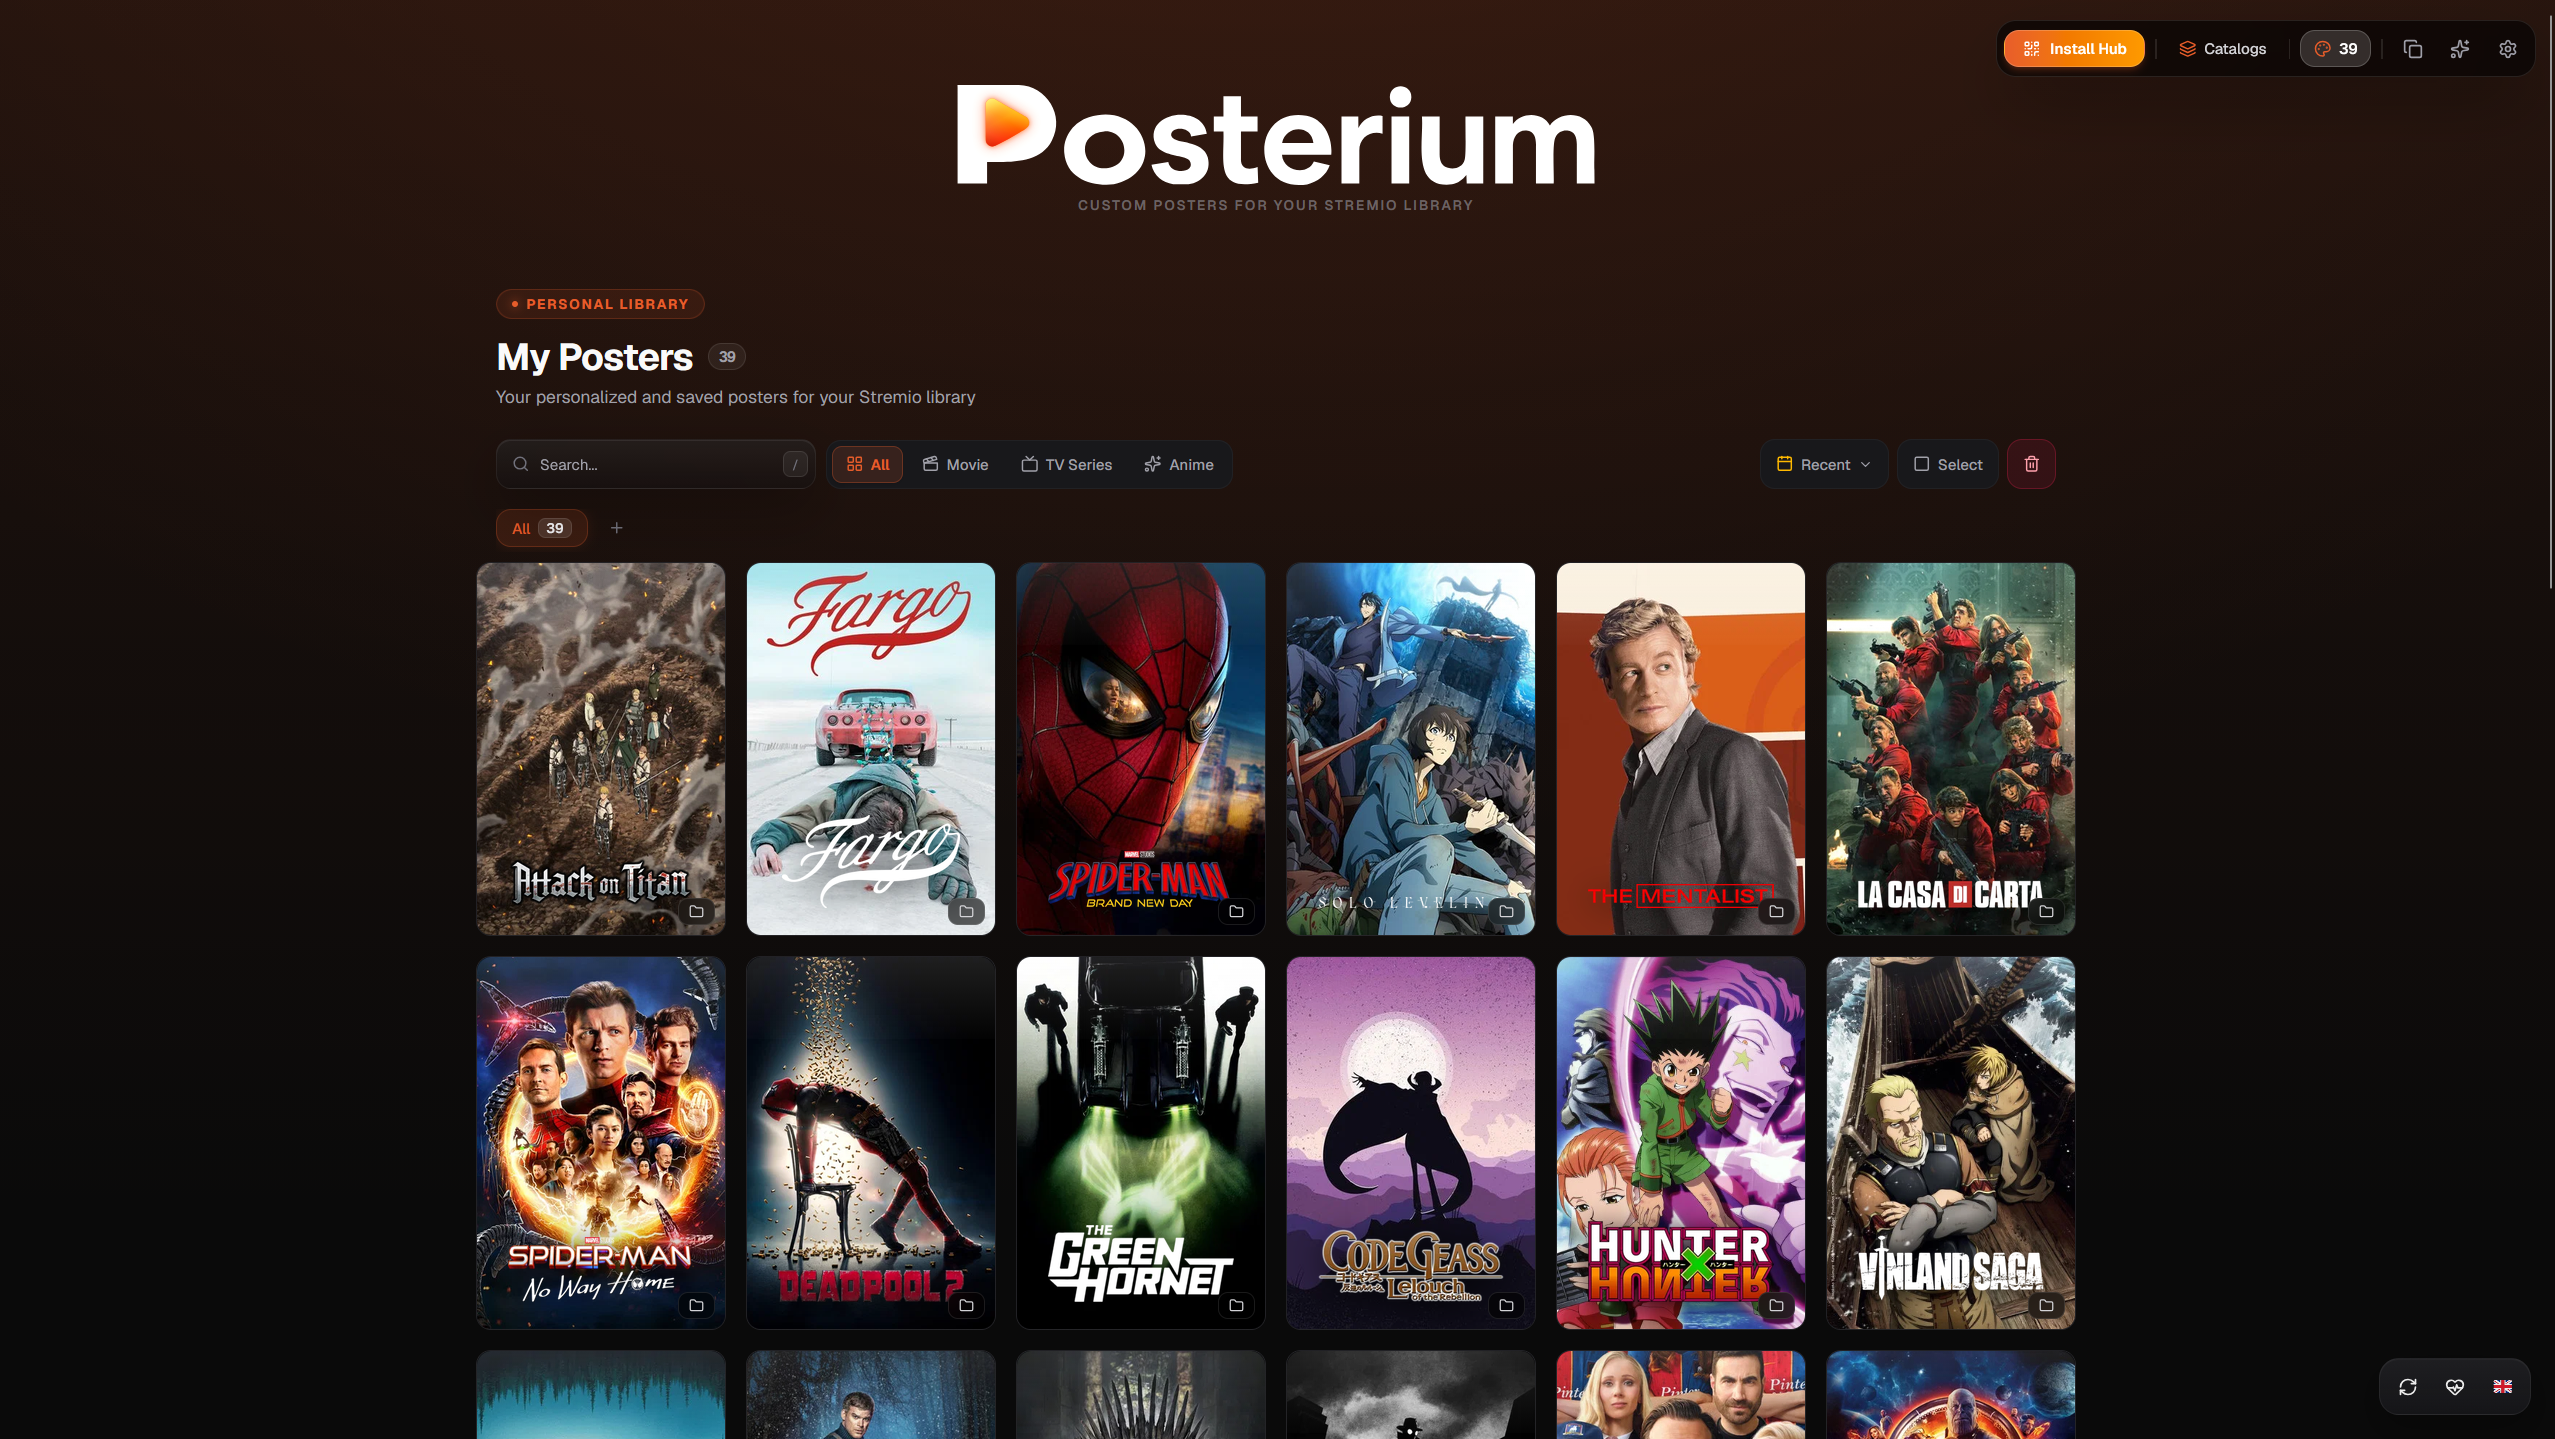
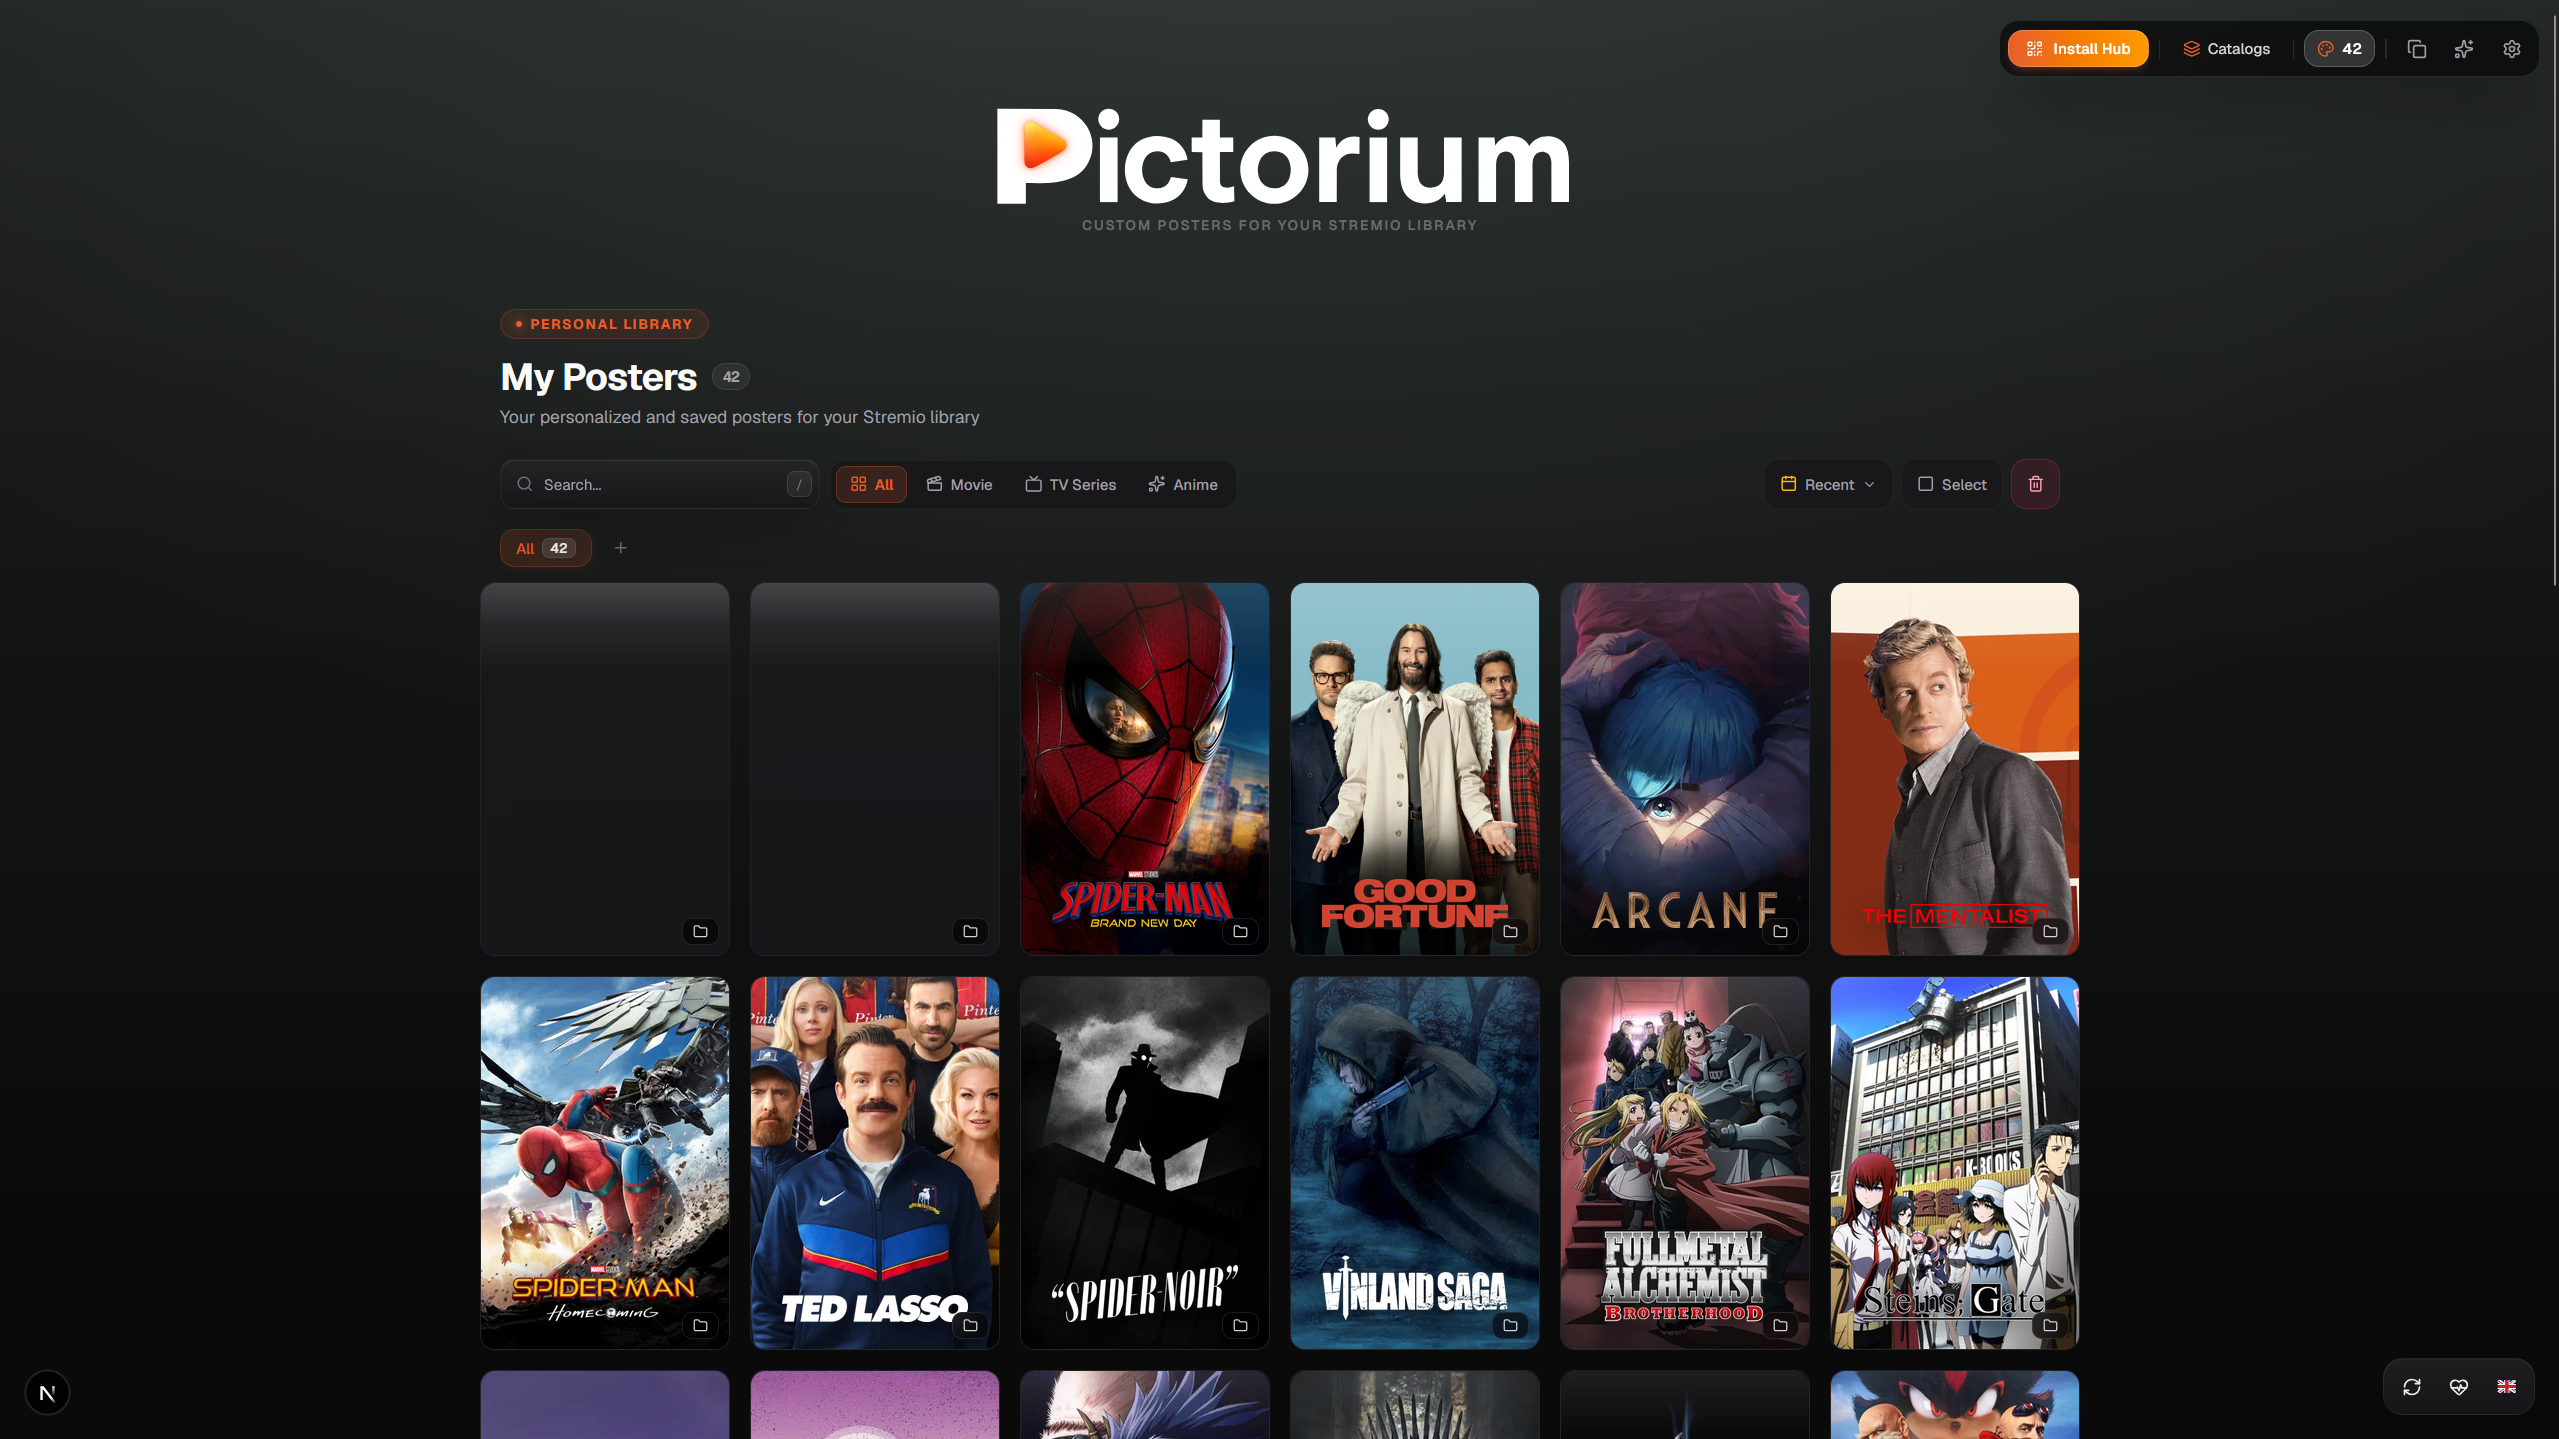
docs: update UI screenshots and alt tags for Pictorium

diff --git a/README.md b/README.md
@@ -35,20 +35,20 @@ pinned: false
 ## 📸 Anteprima
 
 <div align="center">
-  <img src="https://raw.githubusercontent.com/Eful97/Pictorium/master/public/Screen/home.png" alt="Posterium Home" width="100%" style="border-radius: 8px; margin-bottom: 8px;" />
+  <img src="https://raw.githubusercontent.com/Eful97/Pictorium/master/public/Screen/home.png" alt="Pictorium Home" width="100%" style="border-radius: 8px; margin-bottom: 8px;" />
 </div>
 
 <table align="center" width="100%">
   <tr>
-    <td width="50%"><img src="https://raw.githubusercontent.com/Eful97/Pictorium/master/public/Screen/editor.png" alt="Posterium Editor" style="border-radius: 6px;" /></td>
-    <td width="50%"><img src="https://raw.githubusercontent.com/Eful97/Pictorium/master/public/Screen/myposters.png" alt="Posterium My Posters" style="border-radius: 6px;" /></td>
+    <td width="50%"><img src="https://raw.githubusercontent.com/Eful97/Pictorium/master/public/Screen/editor.png" alt="Pictorium Editor" style="border-radius: 6px;" /></td>
+    <td width="50%"><img src="https://raw.githubusercontent.com/Eful97/Pictorium/master/public/Screen/myposters.png" alt="Pictorium My Posters" style="border-radius: 6px;" /></td>
   </tr>
   <tr>
     <td align="center"><em>Editor WYSIWYG & Anteprima Live</em></td>
     <td align="center"><em>I Miei Poster & Libreria Personale</em></td>
   </tr>
   <tr>
-    <td colspan="2"><img src="https://raw.githubusercontent.com/Eful97/Pictorium/master/public/Screen/catalogs.png" alt="Posterium Catalogs" style="border-radius: 6px; margin-top: 8px;" /></td>
+    <td colspan="2"><img src="https://raw.githubusercontent.com/Eful97/Pictorium/master/public/Screen/catalogs.png" alt="Pictorium Catalogs" style="border-radius: 6px; margin-top: 8px;" /></td>
   </tr>
   <tr>
     <td align="center" colspan="2"><em>Cataloghi Dinamici & Classifiche Streaming JustWatch</em></td>

diff --git a/README.en.md b/README.en.md
@@ -35,20 +35,20 @@ pinned: false
 ## 📸 Preview
 
 <div align="center">
-  <img src="https://raw.githubusercontent.com/Eful97/Pictorium/master/public/Screen/home.png" alt="Posterium Home" width="100%" style="border-radius: 8px; margin-bottom: 8px;" />
+  <img src="https://raw.githubusercontent.com/Eful97/Pictorium/master/public/Screen/home.png" alt="Pictorium Home" width="100%" style="border-radius: 8px; margin-bottom: 8px;" />
 </div>
 
 <table align="center" width="100%">
   <tr>
-    <td width="50%"><img src="https://raw.githubusercontent.com/Eful97/Pictorium/master/public/Screen/editor.png" alt="Posterium Editor" style="border-radius: 6px;" /></td>
-    <td width="50%"><img src="https://raw.githubusercontent.com/Eful97/Pictorium/master/public/Screen/myposters.png" alt="Posterium My Posters" style="border-radius: 6px;" /></td>
+    <td width="50%"><img src="https://raw.githubusercontent.com/Eful97/Pictorium/master/public/Screen/editor.png" alt="Pictorium Editor" style="border-radius: 6px;" /></td>
+    <td width="50%"><img src="https://raw.githubusercontent.com/Eful97/Pictorium/master/public/Screen/myposters.png" alt="Pictorium My Posters" style="border-radius: 6px;" /></td>
   </tr>
   <tr>
     <td align="center"><em>WYSIWYG Editor & Live Preview</em></td>
     <td align="center"><em>My Posters & Personal Library</em></td>
   </tr>
   <tr>
-    <td colspan="2"><img src="https://raw.githubusercontent.com/Eful97/Pictorium/master/public/Screen/catalogs.png" alt="Posterium Catalogs" style="border-radius: 6px; margin-top: 8px;" /></td>
+    <td colspan="2"><img src="https://raw.githubusercontent.com/Eful97/Pictorium/master/public/Screen/catalogs.png" alt="Pictorium Catalogs" style="border-radius: 6px; margin-top: 8px;" /></td>
   </tr>
   <tr>
     <td align="center" colspan="2"><em>Dynamic Catalogs & JustWatch Streaming Charts</em></td>
